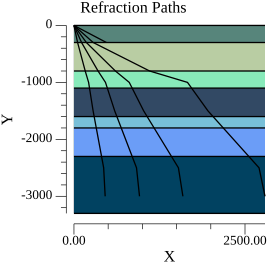
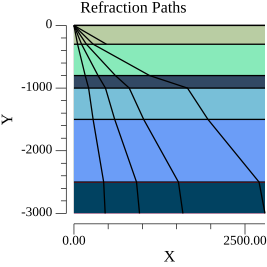
workaround on layer plotting

diff --git a/main.go b/main.go
@@ -96,17 +96,34 @@ func main() {
 	p.Y.Label.Text = "Y"
 	p.Add(plotter.NewGrid())
 
+	/*
+		rnd := rand.New(rand.NewSource(1))
+
+		pts := make(plotter.XYs, 2)
+		pts[0].X = 0
+		pts[0].Y = -1000
+		pts[1].X = getMax(xArrMaxes)
+		pts[1].Y = -1000
+		layers, err := plotter.NewLine(pts)
+		if err != nil {
+			log.Panic(err)
+		}
+
+		layers.FillColor = color.RGBA{R: uint8(rnd.Intn(255)), G: uint8(rnd.Intn(255)), B: uint8(rnd.Intn(255)), A: uint8(rnd.Intn(255))}
+		p.Add(layers)
+	*/
+
 	// plot layers
 	rnd := rand.New(rand.NewSource(1))
 
-	layer := layerThicknesses[1]
+	layer := 0.0
 	for i, thickness := range layerThicknesses {
 		if i == 0 {
 			pts := make(plotter.XYs, 2)
 			pts[0].X = 0
-			pts[0].Y = 0
+			pts[0].Y = layer
 			pts[1].X = getMax(xArrMaxes)
-			pts[1].Y = 0
+			pts[1].Y = layer
 			layers, err := plotter.NewLine(pts)
 			if err != nil {
 				log.Panic(err)
@@ -116,19 +133,22 @@ func main() {
 			p.Add(layers)
 		}
 
-		pts := make(plotter.XYs, 2)
-		pts[0].X = 0
-		pts[0].Y = layer
-		pts[1].X = getMax(xArrMaxes)
-		pts[1].Y = layer
-		layers, err := plotter.NewLine(pts)
-		if err != nil {
-			log.Panic(err)
-		}
+		if i > 0 {
 
-		layers.FillColor = color.RGBA{R: uint8(rnd.Intn(255)), G: uint8(rnd.Intn(255)), B: uint8(rnd.Intn(255)), A: uint8(rnd.Intn(255))}
-		p.Add(layers)
-		layer += thickness
+			pts := make(plotter.XYs, 2)
+			pts[0].X = 0
+			pts[0].Y = layer
+			pts[1].X = getMax(xArrMaxes)
+			pts[1].Y = layer
+			layers, err := plotter.NewLine(pts)
+			if err != nil {
+				log.Panic(err)
+			}
+
+			layers.FillColor = color.RGBA{R: uint8(rnd.Intn(255)), G: uint8(rnd.Intn(255)), B: uint8(rnd.Intn(255)), A: uint8(rnd.Intn(255))}
+			p.Add(layers)
+			layer += thickness
+		}
 
 	}
 
